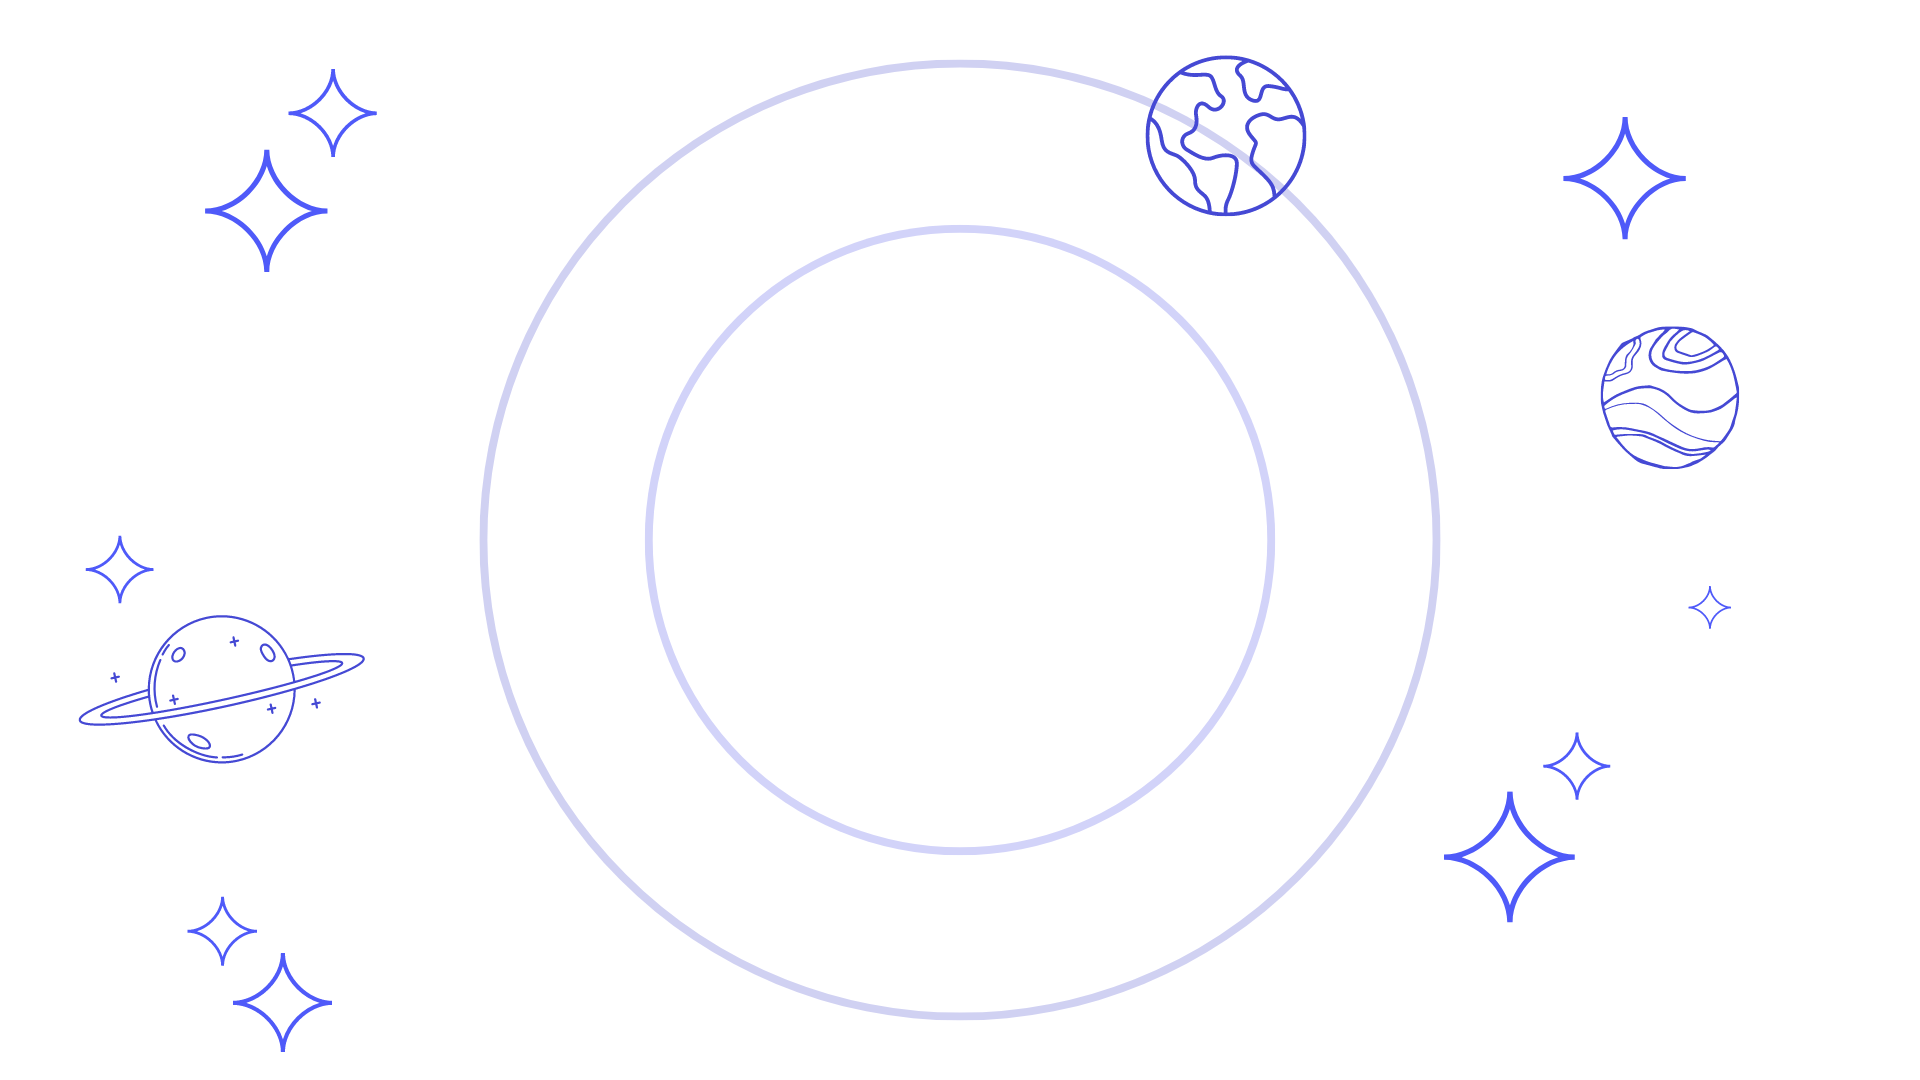
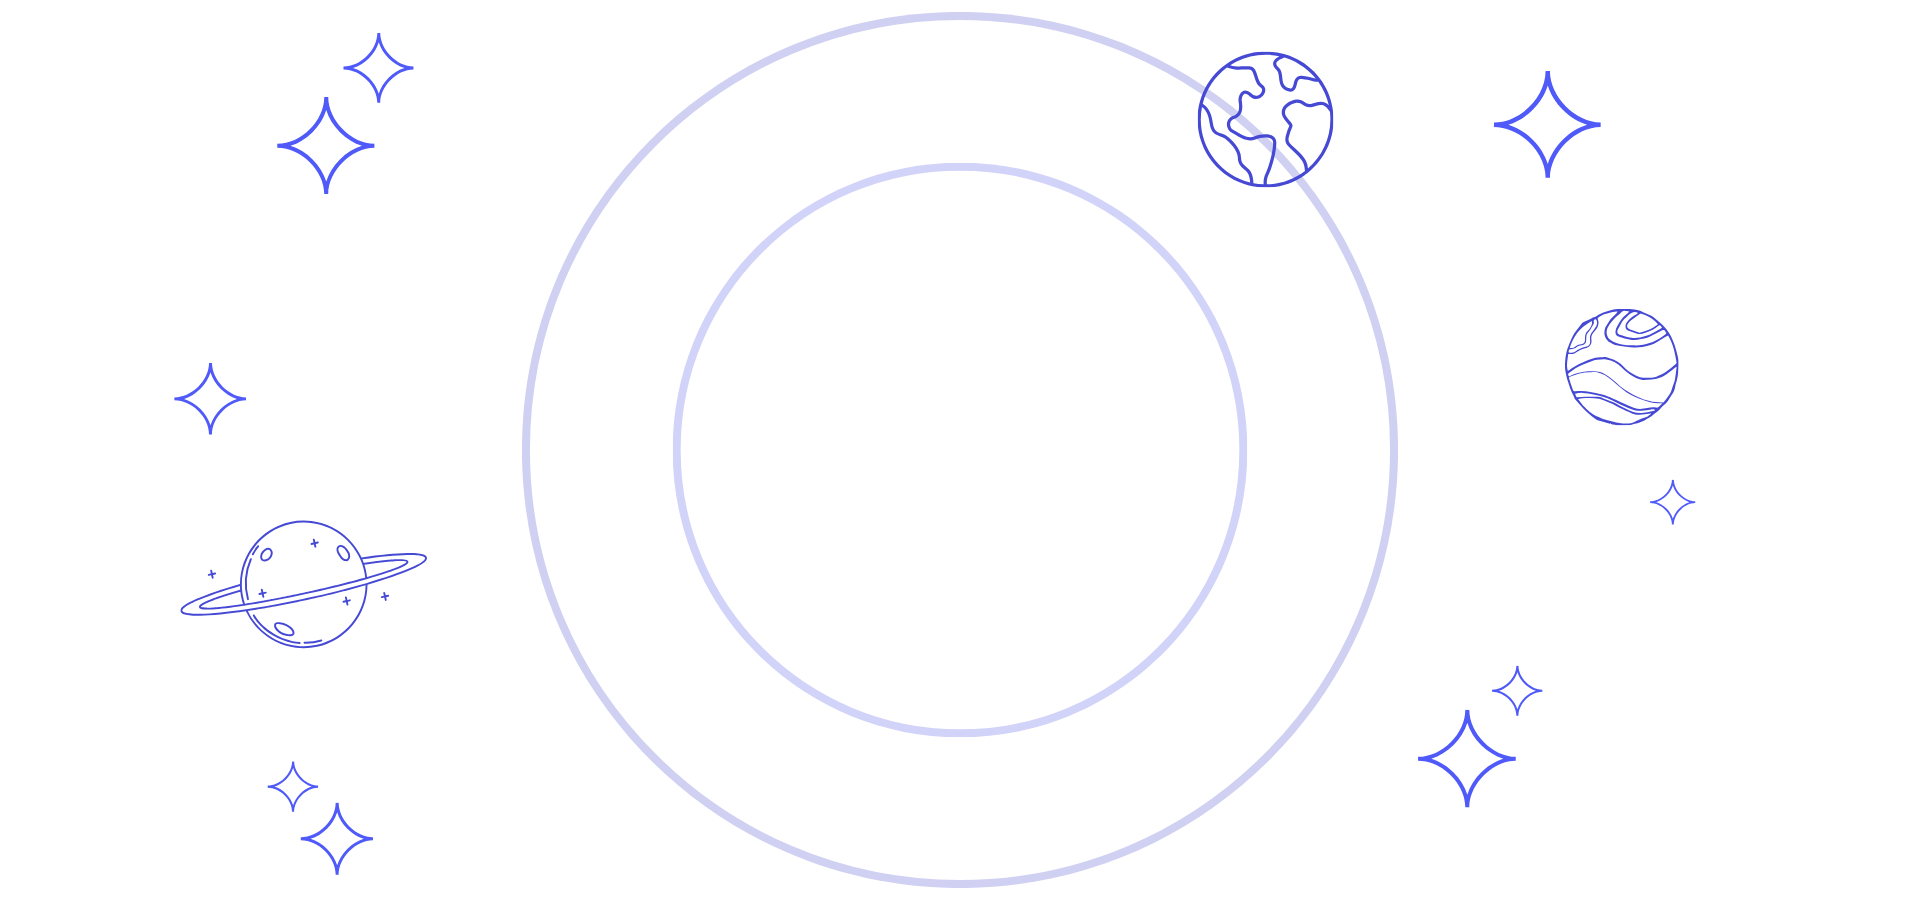
made changes with the global font and adjusted background image

diff --git a/css/projects.css b/css/projects.css
@@ -4,14 +4,14 @@
     box-sizing: border-box;
     margin: 0;
     padding: 0;
-    font-family: 'Poppins', sans-serif;
+    font-family: 'Rubik', sans-serif;
 }
 
 body {
     padding: 0;
     margin: 0;
     height: 100%;
-    font-family: "Poppins", sans-serif;
+    font-family: "Rubik", sans-serif;
     background-color: #2f3292;
 }
 
@@ -265,7 +265,7 @@ div.container-project-box .card .container-card p{
     margin: 20px 0;
     font-size: 1em;
     color: white;
-    font-weight: 100;
+    font-weight: 400;
 }
 
 div.container-project-box .card .card-button {

diff --git a/css/certification.css b/css/certification.css
@@ -1,15 +1,17 @@
+@import url('https://fonts.googleapis.com/css2?family=Oswald:wght@200..700&family=Rubik:ital,wght@0,300..900;1,300..900&display=swap');
+
 * {
     box-sizing: border-box;
     margin: 0;
     padding: 0;
-    font-family: 'Poppins', sans-serif;
+    font-family: 'Rubik', sans-serif;
 }
 
 body {
     padding: 0;
     margin: 0;
     height: 100%;
-    font-family: "Poppins", sans-serif;
+    font-family: "Rubik", sans-serif;
     background-color: #2f3292;
 }
 
